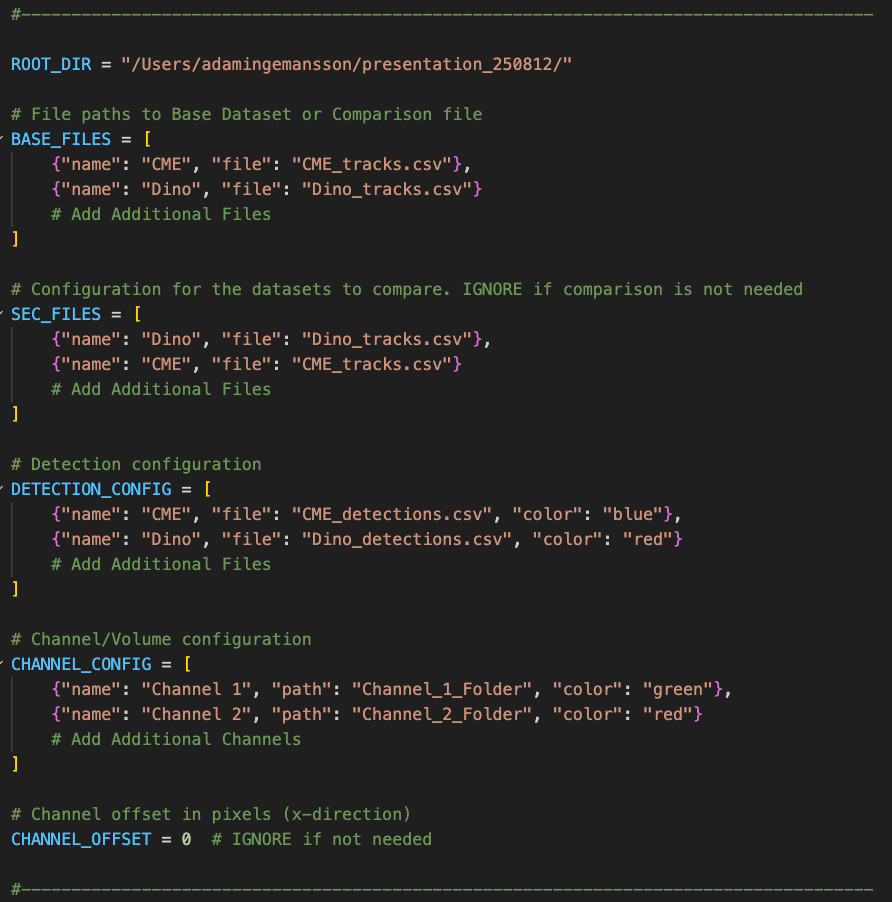
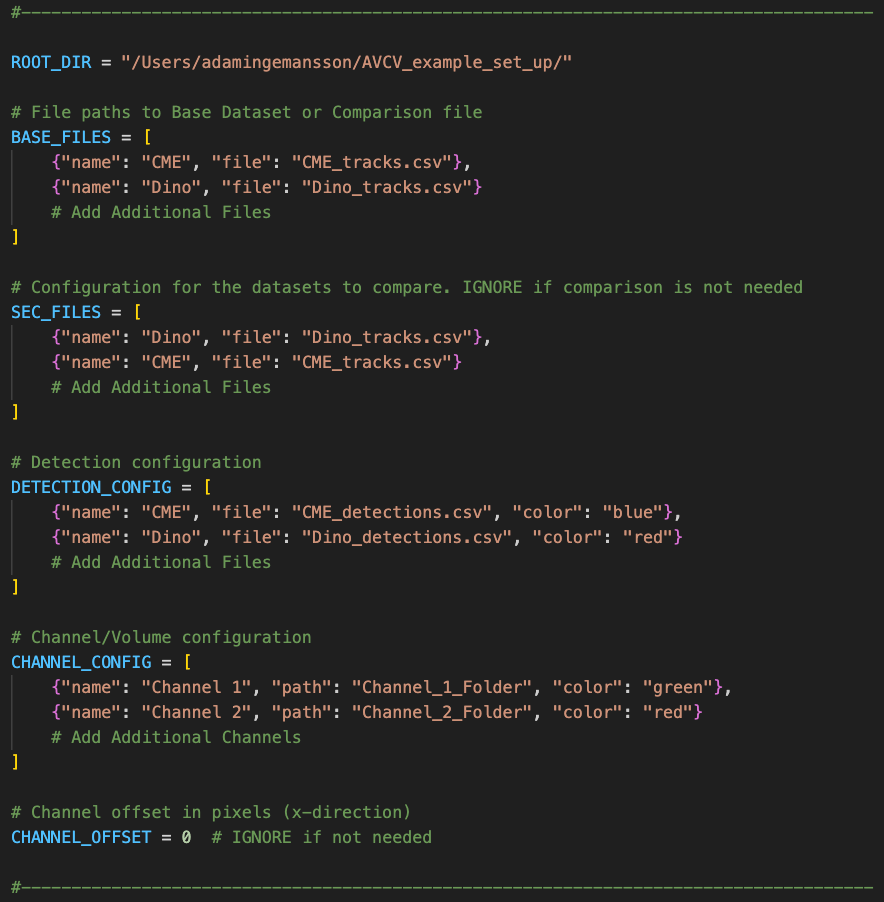
Add README and setup config image

diff --git a/README.md b/README.md
@@ -39,8 +39,6 @@ An interactive viewer for **multi‑channel time‑series microscopy data** (opt
 
 ## Example Videos
 
-> Put your video files into the repository at `videos/`. GitHub can inline small MP4/WebM files (≤100 MB). For larger files, use Git LFS or link to YouTube/Vimeo. Each entry below includes an inline player and a fallback link.
-
 **1) Introduction / overview**  
 <video src="videos/intro.mp4" controls width="720"></video>  
 *[Download / open video](videos/intro.mp4)*
@@ -179,35 +177,6 @@ CHANNEL_CONFIG = [
 CHANNEL_OFFSET = 0  # horizontal pixel shift applied to all channels (for alignment)
 ```
 
-**(Optional) Full configuration snippet, in the same style as in the script:**  
-```python
-# ======================================================================
-ROOT_DIR = "/Users/yourname/AVCV_example_set_up/"
-
-BASE_FILES = [
-    {"name": "CME", "file": "CME_tracks.csv"},
-    {"name": "Dino", "file": "Dino_tracks.csv"}
-]
-
-SEC_FILES = [
-    {"name": "Dino", "file": "Dino_tracks.csv"},
-    {"name": "CME", "file": "CME_tracks.csv"}
-]
-
-DETECTION_CONFIG = [
-    {"name": "CME", "file": "detections_CME.csv", "color": "blue"},
-    {"name": "Dino", "file": "detections_Dino.csv", "color": "red"}
-]
-
-CHANNEL_CONFIG = [
-    {"name": "Channel 1", "path": "Channel_1_Folder", "color": "green"},
-    {"name": "Channel 2", "path": "Channel_2_Folder", "color": "red"}
-]
-
-CHANNEL_OFFSET = 0
-# ======================================================================
-```
-
 ---
 
 ## 4) CSV Formats
@@ -228,7 +197,7 @@ Expected columns (headers required):
 ### Detection CSVs
 A simple list of detection points per frame. Typical columns:
 ```
-ID, t, x, y, z, FI
+t, x, y, z
 ```
 (Minimum fields shown; extra columns are safely ignored. In a pinch, tracking CSVs can be reused as detection CSVs.)
 
